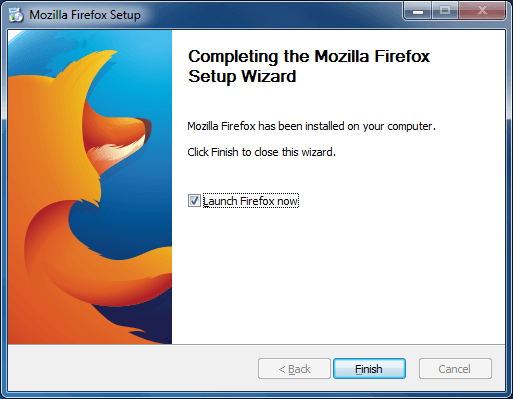
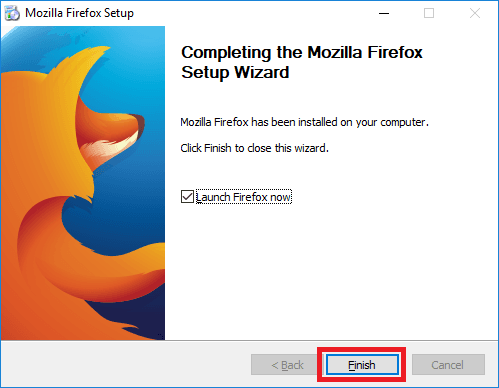
update post

Changed region(s): [[0.0, 0.0, 1.0, 1.0]]

diff --git a/_posts/internet/2018-06-11-download-install-firefox-56-windows.md b/_posts/internet/2018-06-11-download-install-firefox-56-windows.md
@@ -71,7 +71,9 @@ Click `Next`.
 
 <img src="{{ site.url }}/assets/images/posts/internet/firefox/firefox-56-setup-wizard-welcome.png" alt="firefox 56 setup wizard welcome">
 
- Keep the default settings.
+Keep the default settings.
+
+Click `Next`.
 
 <img src="{{ site.url }}/assets/images/posts/internet/firefox/firefox-56-setup-wizard-select-type.png" alt="firefox 56 setup wizard select type">
 
@@ -85,9 +87,9 @@ Click `Install` to start the installation.
 
 Wait until the installation is complete.
 
-<img src="{{ site.url }}/assets/images/posts/internet/firefox/firefox-56-setup-wizard-finish.png" alt="firefox 56 setup wizard finish">
-
 Click `Finish`.
+
+<img src="{{ site.url }}/assets/images/posts/internet/firefox/firefox-56-setup-wizard-finish.png" alt="firefox 56 setup wizard finish">
 
 ## Step #3: Run
 
